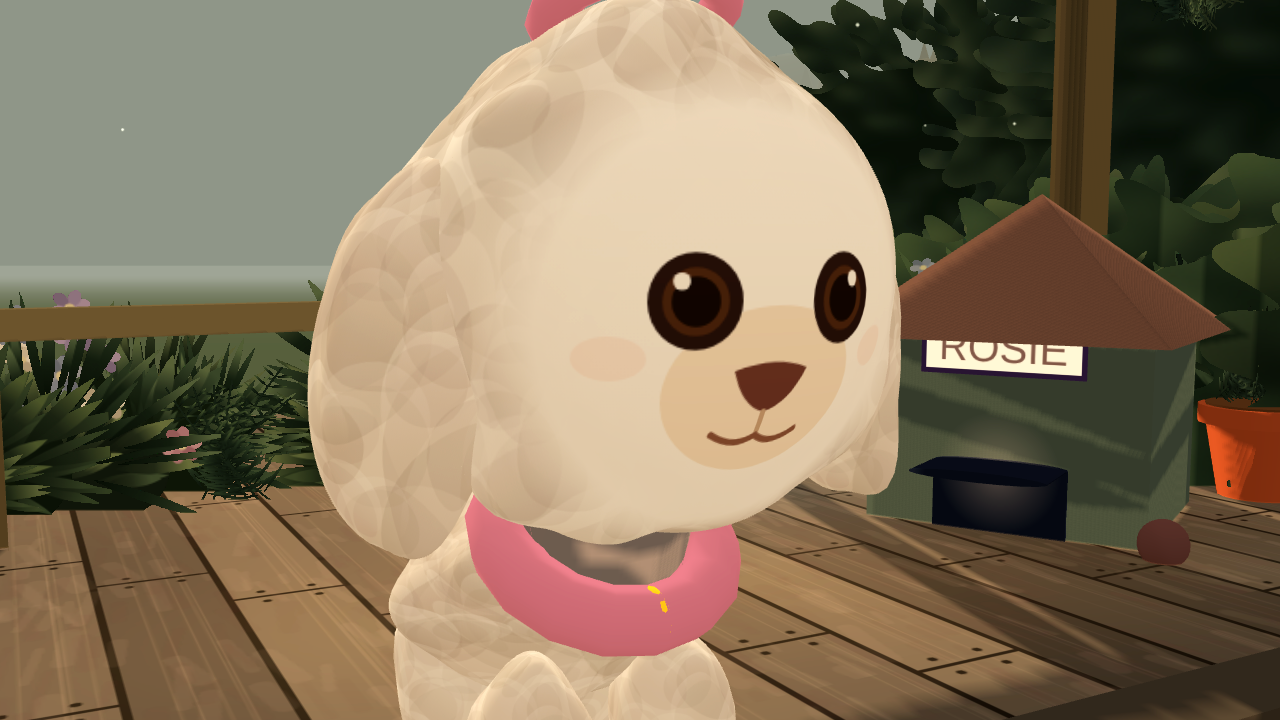
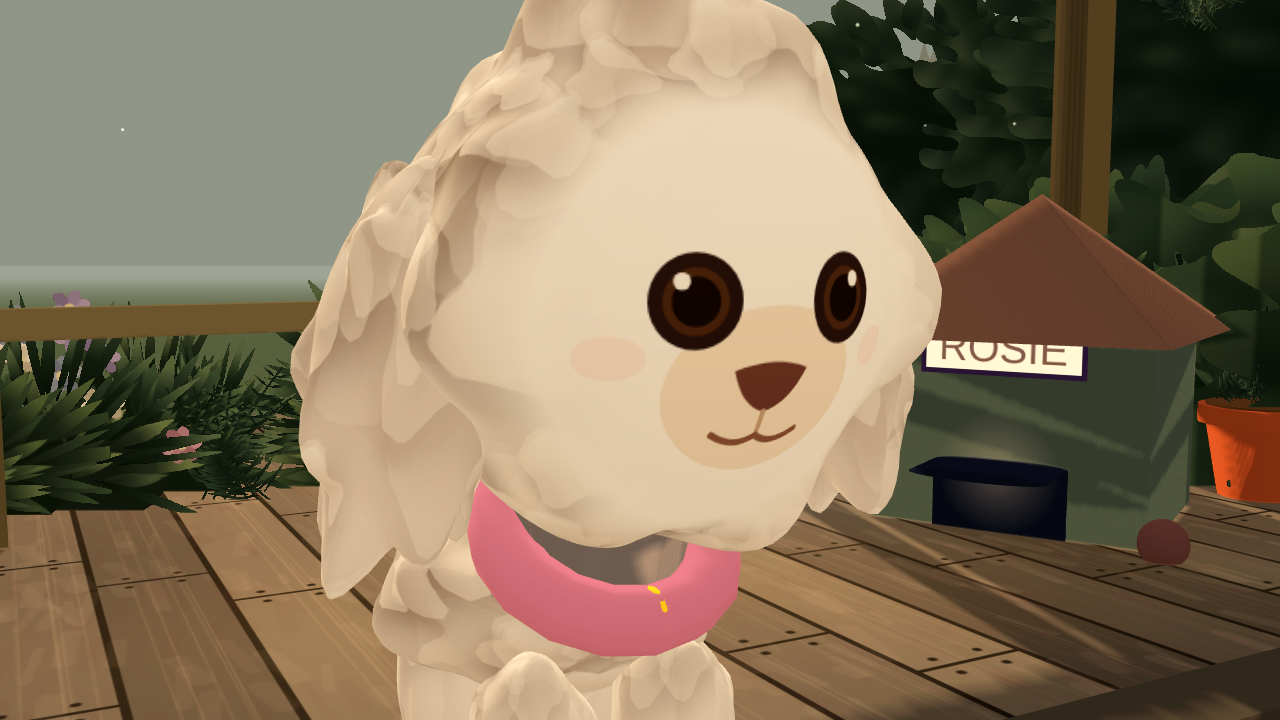
feat(art): ragged silhouette, clustered curls; dial back the wax look
Two changes in sequence.

The agent pass replaced the per-latitude curl lattice with a seeded clustered
scatter — cluster centres, a density field that thins whole regions, power-law
sizes and a lumpy per-clump outline — and re-aimed the geometric lobes at the
outline (crown, cheeks, chest, haunch, rump, back line, ear hems). The
fish-scale read is gone and the outline is ragged, clearest in the rear view.

It overshot: at close range the coat read as melted wax, large amorphous folds
with hard dark creases. Dialled back by hand, three numbers in paintCurls():
clump size spread 4x -> 2.1x, outline harmonics 0.36 -> 0.22 max deviation,
and the drop shadow softened (alpha .48 -> .26, blur .40 -> .62 of radius,
offset .34 -> .22) since the hard crescents were most of the wax look.

Gameplay distance was already good and is the view that counts; the close
range is what this corrects. Screenshot verification still pending.

191 draw calls in play, 244 in boss, ceiling 620. moves_nf 35/36, only the
known Diggy-Down overshoot. No new failures.

Evidence: production/qa/evidence/c2d8-*.png, c2d8b-*.png
Design: design/art/cartoon-to-3d.md

Claude-Session: https://claude.ai/code/session_01JR8fsw3Uh5kViP8MJWMfnz

diff --git a/src/index.html b/src/index.html
@@ -1865,34 +1865,58 @@ let FURC=new THREE.Color('#fff3dd').convertSRGBToLinear(),FWET=new THREE.Color('
 /* ===== cartoon-to-3d.md: the curls are PAINTED, not sculpted =====
    Deeper dents in a smooth surface give a melted potato; the reference style splits the work --
    the model supplies the FORM, the drawing supplies the DETAIL. So the coat's interior curl clumps
-   live in a texture: a rounded clump shape with a soft shadow beneath it and a light top, varied in
-   size and nudged off the lattice. Geometry now carries only a handful of big silhouette lobes.
-   Clumps are laid out per latitude row with the count scaled by sin(theta), which pre-distorts for
-   the sphere's UV pinch so they read round on the mesh instead of right in the texture. Every row
-   is drawn three times (x-W, x, x+W) so the wrap seam has no gap. */
+   live in a texture. The first build laid them out on a per-latitude LATTICE, and a lattice of
+   same-sized discs reads as fish scales or a pinecone -- the exact opposite of the character sheet,
+   where clump size varies ~4x, clumps clot into larger masses in places and leave quieter patches
+   elsewhere. The field is therefore a seeded SCATTER:
+     - cluster centres are drawn first and two thirds of the clumps orbit one, so masses form;
+     - a low-frequency density field thins whole REGIONS, which is what makes quiet patches read as
+       calm coat rather than as dropped-out holes in a grid;
+     - sizes follow a power law (u*u), so there are many small curls and a few large ones;
+     - each clump is a lumpy three-harmonic blob with its own phases, never a disc, and never
+       repeats its neighbour's outline;
+     - each carries a soft dark drop-shadow offset DOWN the body plus a light top, so it reads as
+       rounded curl mass instead of a flat circle, and so overlapping clumps shadow each other and
+       merge into one bigger mass.
+   Clump width is multiplied by W/(2*H*sin(theta)) to pre-distort for the sphere's UV pinch, so a
+   clump is round ON THE MESH rather than in the texture. Clumps near a vertical edge are redrawn at
+   x-W / x+W so the wrap seam has no gap. Seeded LCG only -- no Math.random() anywhere in here. */
 function paintCurls(g,W,H,rows,cols,seed,a){let sd=seed|0;
  const rn=()=>{sd=(sd*1103515245+12345)&0x7fffffff;return sd/0x7fffffff;};
- /* TWO passes at a non-integer size ratio, with holes, big size spread and free rotation. A single
-    evenly-spaced pass of same-sized, same-facing clumps reads as roof shingles or a pinecone, which
-    is the opposite of the sheet: her curls vary wildly in size and clump together irregularly. */
- const pass=(rw,cl,al)=>{
-  for(let j=0;j<rw;j++){const v=(j+.5)/rw,st=Math.max(.30,Math.sin(Math.PI*v));
-   const n=Math.max(3,Math.round(cl*st)),ryb=H/rw*.88,rxb=W/n*.68;
-   for(let i=0;i<n;i++){
-    const hole=rn(),jx=rn(),jy=rn(),k=.58+.86*rn(),kx=.78+.48*rn(),ky=.78+.48*rn(),kr=rn(),ka=rn();
-    if(hole<.17)continue;                       /* dropped clumps break the lattice */
-    const x=(i+.5+(jx-.5)*.85)/n*W,y=(v+(jy-.5)*.60/rw)*H;
-    const rx=rxb*k*kx,ry=ryb*k*ky,ro=(kr-.5)*1.9,A=al*(.52+.58*ka);
-    for(const dx of [-W,0,W]){g.save();g.translate(x+dx,y);g.rotate(ro);
-     g.beginPath();g.ellipse(0,ry*.30,rx*1.00,ry*.92,0,0,6.283);
-     g.fillStyle='rgba(146,122,102,'+(.25*A).toFixed(3)+')';g.fill();
-     const gr=g.createLinearGradient(0,-ry,0,ry*.86);
-     gr.addColorStop(0,'rgba(255,255,255,'+(.90*A).toFixed(3)+')');
-     gr.addColorStop(.50,'rgba(252,247,241,'+(.44*A).toFixed(3)+')');
-     gr.addColorStop(1,'rgba(228,212,196,0)');
-     g.beginPath();g.ellipse(0,-ry*.08,rx*.90,ry*.84,0,0,6.283);g.fillStyle=gr;g.fill();g.restore();}}}};
- pass(rows,cols,a*.88);
- pass(Math.max(3,Math.round(rows*1.7)),Math.max(3,Math.round(cols*1.7)),a*.60);}
+ const A0=(a===undefined?.78:a),S=H/rows*.38,AR=W/(2*H),N=Math.max(24,Math.round(rows*cols*6.0));
+ /* a curl is a lumpy spiral, not a disc */
+ const path=(rx,ry,p1,p2,p3)=>{g.beginPath();
+  for(let k=0;k<=24;k++){const t=k/24*6.283,
+   rr=1+.10*Math.sin(t*3+p1)+.07*Math.sin(t*5+p2)+.05*Math.sin(t*2+p3);
+   const px=Math.cos(t)*rx*rr,py=Math.sin(t)*ry*rr;if(k)g.lineTo(px,py);else g.moveTo(px,py);}
+  g.closePath();};
+ const cen=[],M=Math.max(3,Math.round(N/7));
+ for(let i=0;i<M;i++)cen.push([rn(),rn(),.04+.10*rn()]);
+ const CL=[];
+ for(let i=0;i<N;i++){
+  const pick=rn(),u=rn(),ci=rn(),qa=rn(),qr=rn(),fx=rn(),fy=rn(),
+        p1=rn()*6.283,p2=rn()*6.283,p3=rn()*6.283,al=rn(),ec=rn(),dk=rn();
+  let ux,uy;
+  if(pick<.58){const c=cen[Math.floor(ci*M)%M],ang=qa*6.283,rad=c[2]*(.12+.88*qr*qr);
+   ux=c[0]+Math.cos(ang)*rad*1.6;uy=c[1]+Math.sin(ang)*rad;}
+  else{ux=fx;uy=fy;}
+  uy=Math.min(.996,Math.max(.004,uy));ux-=Math.floor(ux);
+  if(dk>.44+.56*(.5+.5*Math.sin(ux*12.566+1.3)*Math.cos(uy*9.425+.7)))continue;
+  const ry=S*(.74+.80*u),st=Math.max(.34,Math.sin(Math.PI*uy));
+  CL.push([ux*W,uy*H,ry*AR/st*(.86+.28*ec),ry,p1,p2,p3,A0*Math.min(1,.64+.46*al)]);}
+ CL.sort((p,q)=>q[3]-p[3]); /* big masses first; small curls settle on top and merge into them */
+ for(let q=0;q<CL.length;q++){const c=CL[q],x=c[0],y=c[1],rx=c[2],ry=c[3],A=c[7];
+  const xs=(x<rx*1.4)?[0,W]:(x>W-rx*1.4)?[0,-W]:[0];
+  for(let d=0;d<xs.length;d++){g.save();g.translate(x+xs[d],y);
+   g.shadowColor='rgba(186,160,137,'+(.38*A).toFixed(3)+')';
+   g.shadowBlur=Math.max(1.5,ry*.62);g.shadowOffsetY=ry*.22;
+   path(rx,ry,c[4],c[5],c[6]);g.fillStyle='rgba(248,242,234,'+(.82*A).toFixed(3)+')';g.fill();
+   g.shadowColor='rgba(0,0,0,0)';g.shadowBlur=0;g.shadowOffsetY=0;
+   const gr=g.createLinearGradient(0,-ry*1.12,0,ry*.58);
+   gr.addColorStop(0,'rgba(255,255,255,'+(.86*A).toFixed(3)+')');
+   gr.addColorStop(.46,'rgba(253,249,243,'+(.40*A).toFixed(3)+')');
+   gr.addColorStop(1,'rgba(228,212,196,0)');
+   path(rx*.88,ry*.88,c[4],c[5],c[6]);g.fillStyle=gr;g.fill();g.restore();}}}
 const COAT_BASE='#f4ede6'; /* the clump field averages ~0.95, so she stays the lightest thing in frame */
 function coatTex(rows,cols,seed,a){return ctex(512,512,1,1,g=>{g.fillStyle=COAT_BASE;g.fillRect(0,0,512,512);
  paintCurls(g,512,512,rows,cols,seed,a===undefined?.78:a);});}
@@ -1982,12 +2006,21 @@ const dog=grp(scene),dogP=grp(dog),dBody=grp(dogP);
    34 x 23 x 26 so the head out-masses it the way the sheet does: ~78 long against a ~100 head. */
 /* a real chest and a real haunch, then a few broad lobes for the outline -- nothing finer, the
    texture has the detail now. Coarser mesh too: 64x44 instead of 112x76. */
-const dBodyM=fluff(dBody,bodyM,30,[1,.72,.84],{pos:[-8,46,0],seg:[64,44],base:3.0,ph:.0,
-  lb:lobes(11,7717,.34,.58,3.0,6.2).concat([[.70,.18,.46,.66,5.4,Math.cos(.66)],[.70,.18,-.46,.66,5.4,Math.cos(.66)],
-   [-.62,.40,.52,.74,7.0,Math.cos(.74)],[-.62,.40,-.52,.74,7.0,Math.cos(.74)],[-.90,-.10,0,.60,4.0,Math.cos(.60)]])});
+const dBodyM=fluff(dBody,bodyM,30,[1,.72,.84],{pos:[-8,46,0],seg:[72,50],base:3.0,ph:.0,
+  /* the displacement is spent where it shows -- ON THE OUTLINE. A thin even scatter of small dents
+     over the whole surface is what reads as a melted potato; a modest count of broad, deliberately
+     aimed lobes at chest / haunch / rump / back line / flank breaks the arc instead. */
+  lb:lobes(9,7717,.32,.54,3.0,5.8).concat([
+   [.882,.136,.452,.64,6.0,Math.cos(.64)],[.882,.136,-.452,.64,6.0,Math.cos(.64)],      /* chest */
+   [-.659,.462,.593,.72,6.6,Math.cos(.72)],[-.659,.462,-.593,.72,6.6,Math.cos(.72)],    /* haunches */
+   [-.996,-.087,0,.60,4.6,Math.cos(.60)],                                               /* rump */
+   [.426,.893,.142,.48,6.0,Math.cos(.48)],[-.12,.98,-.16,.46,6.6,Math.cos(.46)],
+   [-.587,.789,.182,.48,5.8,Math.cos(.48)],                                             /* back line */
+   [.060,.261,.964,.54,5.4,Math.cos(.54)],[.060,.261,-.964,.54,5.4,Math.cos(.54)],
+   [-.441,-.161,.883,.50,4.6,Math.cos(.50)],[-.441,-.161,-.883,.50,4.6,Math.cos(.50)]])});
 /* TAIL: a rising plume, flared at the tip -- the sheet's flag */
-const dTail=grp(dBody,-34,50,0);fluff(dTail,tailM,22,[.54,1.28,.48],{pos:[-4,16,0],seg:[44,32],base:1.6,ph:1.7,
-  lb:lobes(6,4231,.44,.68,3.2,5.6)});
+const dTail=grp(dBody,-34,50,0);fluff(dTail,tailM,22,[.54,1.28,.48],{pos:[-4,16,0],seg:[52,38],base:1.8,ph:1.7,
+  lb:lobes(10,4231,.28,.50,3.2,6.0)});
 const FACE_C=document.createElement('canvas');FACE_C.width=1024;FACE_C.height=512;const FACE_G=FACE_C.getContext('2d');
 FACE_G.fillStyle='#ffffff';FACE_G.fillRect(0,0,1024,512);
 paintCurls(FACE_G,1024,512,8,16,2609,.78);
@@ -2036,15 +2069,25 @@ function faceTick(c,bl){const k=[c[0]*bl,c[1],c[2],c[3],c[4],c[5],c[7],c[8],c[9]
    near-neckless set. It wears the face map itself, so there is no decal and no boundary. The
    crown tuft is a lobe of the SAME surface, not a ball stuck on top. */
 const dHead=grp(dogP,34,110,0);
-const dHeadM=fluff(dHead,faceM,41,null,{seg:[72,52],base:2.4,tuft:4.0,ph:.9,
-  lb:lobes(14,2609,.30,.52,3.0,6.0,[.989,-.149,0,1.02]),
+const dHeadM=fluff(dHead,faceM,41,null,{seg:[80,56],base:2.4,tuft:4.2,ph:.9,
+  /* crown / cheeks / back of skull: the three places the head's outline is read from. All sit
+     outside the keep cap, so the drawn face cannot warp. */
+  lb:lobes(11,2609,.28,.48,3.2,6.4,[.989,-.149,0,1.02]).concat([
+   [.10,.97,.22,.52,7.0,Math.cos(.52)],[-.34,.90,-.28,.48,6.2,Math.cos(.48)],
+   [.52,.80,-.30,.46,5.8,Math.cos(.46)],                                          /* crown */
+   [.44,-.14,.89,.54,6.4,Math.cos(.54)],[.44,-.14,-.89,.54,6.4,Math.cos(.54)],    /* cheeks */
+   [-.84,.30,.45,.56,6.0,Math.cos(.56)],[-.84,.30,-.45,.56,6.0,Math.cos(.56)]]),  /* back of head */
   keep:[.989,-.149,0,.72,1.14]}); /* the cap around the muzzle axis stays undisplaced: the drawn face cannot warp */
 const dTie=add(dHead,new THREE.TorusGeometry(13,3.2,8,18),collarM,0,43,0,1,1,1);dTie.rotation.set(Math.PI/2,0,.3);/* wardrobe: the Topknot slot owns this */
 /* EARS: the heaviest mass in her silhouette, hinged high and hanging 23 past the jaw as the sheet
    has them. One displaced surface each -- lumpy outline, no seam. */
 const dEars=[1,-1].map(s=>{const g=grp(dHead,-2,14,s*30);
- fluff(g,earM,24,[.64,1.28,.62],{pos:[0,-26,s*4],seg:[40,30],base:1.4,ph:s>0?.4:2.6,
-  lb:lobes(6,s>0?881:1733,.44,.66,2.6,4.6)});return g;});
+ fluff(g,earM,24,[.64,1.28,.62],{pos:[0,-26,s*4],seg:[52,38],base:1.8,ph:s>0?.4:2.6,
+  /* on the sheet an ear is heavy curl MASS with a ragged hem, not a smooth drape -- so the hanging
+     rim gets four strong lobes of its own on top of the scattered field */
+  lb:lobes(12,s>0?881:1733,.26,.46,2.8,5.4).concat([
+   [.02,-.93,s*.37,.48,5.6,Math.cos(.48)],[.60,-.78,-s*.18,.46,5.0,Math.cos(.46)],
+   [-.62,-.76,s*.20,.46,5.2,Math.cos(.46)],[.30,-.40,s*.87,.50,4.8,Math.cos(.50)]])});return g;});
 /* ---- property 2: the face is DRAWN, not built. The map goes straight onto the head sphere --
    a separate decal shell left a visible mask edge, which is the opposite of "seamless". One 1024x512
    canvas, white everywhere but the face, so there is no boundary anywhere on her. Crisp flat shapes
@@ -2065,8 +2108,8 @@ const dTag=sph(dogP,M('#ffd23f',{emissive:'#7a5a00'}),5.5,40,58,0,1,1,.5,false);
    visible creases; on the sheet her legs disappear into the coat rather than plugging into it, so
    each leg is a single surface whose top is buried deep inside the body's coat.  */
 const dLegs=[[20,15,0],[20,-15,.6],[-22,15,2.4],[-22,-15,3]].map(([x,z,ph],i)=>{const g=grp(dogP,x,34,z);
- fluff(g,legM,14,[.80,1.46,.80],{pos:[0,-12,0],seg:[28,20],base:1.1,ph:i*1.3,
-  lb:lobes(5,2207+i*97,.48,.78,1.4,3.0)});
+ fluff(g,legM,14,[.80,1.46,.80],{pos:[0,-12,0],seg:[34,24],base:1.1,ph:i*1.3,
+  lb:lobes(7,2207+i*97,.38,.64,1.5,3.0)});
  return {g,ph};});
 /* ---- boss-and-dance-mode.md 2: GIANT DANCE MODE. Visual only. danceS multiplies dogP.scale, never R.sc --
    R.sc feeds collision and the camera, so growing it would be a gameplay change this doc does not own.
